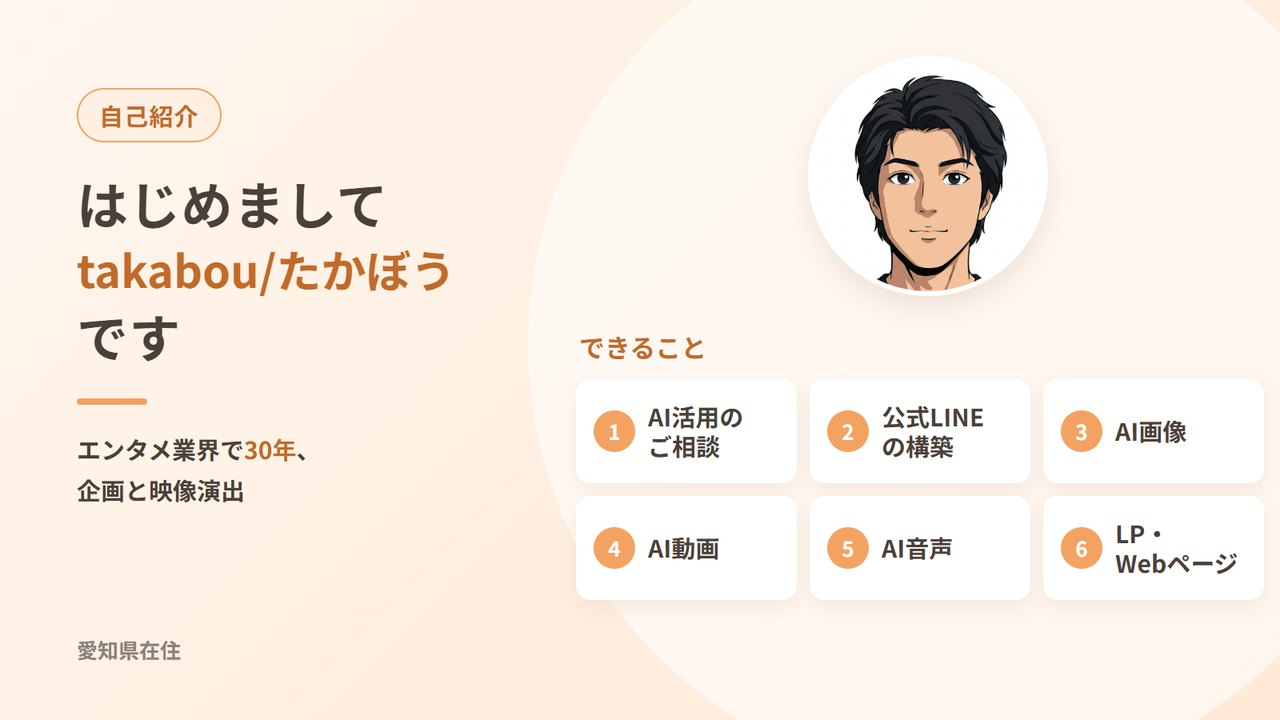
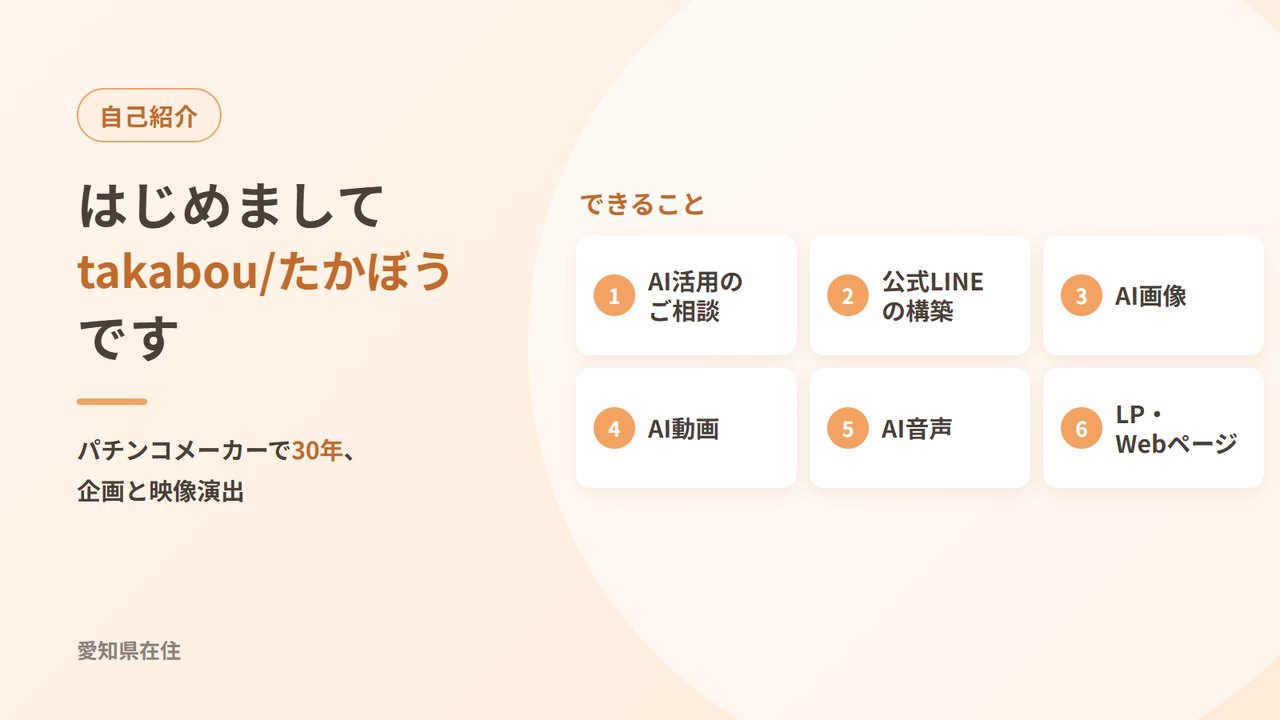
自己紹介ページを追加（写真6枚のスライド）
- works/profile.html：写真に白いフィルターと文字を重ねた自己紹介スライド6枚
- トップの自己紹介カードは似顔絵なしの画像にし、自己紹介ページへリンク
- 肩書を「AIクリエイター」、前職を「パチンコメーカー」に統一
- check.js に自己紹介ページの存在とリンクの確認を追加

diff --git a/works/profile.html b/works/profile.html
@@ -1,0 +1,87 @@
+<!DOCTYPE html>
+<html lang="ja">
+<head>
+  <meta charset="utf-8">
+  <meta name="viewport" content="width=device-width, initial-scale=1">
+  <title>自己紹介｜takabou/たかぼう</title>
+  <meta name="description" content="生まれた町のこと、会社員時代のこと、好きなこと、大切にしていること、これからの夢。6枚で、自分のことをお伝えします。">
+  <meta name="robots" content="noindex">
+  <link rel="canonical" href="https://takabou-n.github.io/works/profile.html">
+  <link rel="icon" type="image/png" href="../assets/img/icon.png">
+  <meta property="og:title" content="自己紹介｜takabou/たかぼう">
+  <meta property="og:description" content="生まれた町のこと、会社員時代のこと、好きなこと、大切にしていること、これからの夢。6枚で、自分のことをお伝えします。">
+  <meta property="og:image" content="https://takabou-n.github.io/assets/profile/01.jpg">
+  <meta property="og:url" content="https://takabou-n.github.io/works/profile.html">
+  <meta property="og:type" content="profile">
+  <meta name="twitter:card" content="summary_large_image">
+  <link rel="preconnect" href="https://fonts.googleapis.com">
+  <link rel="preconnect" href="https://fonts.gstatic.com" crossorigin>
+  <link rel="stylesheet" href="https://fonts.googleapis.com/css2?family=Noto+Sans+JP:wght@400;500;700&display=swap">
+  <link rel="stylesheet" href="../assets/css/style.css">
+  <script src="../assets/js/main.js" defer></script>
+</head>
+<body class="page-profile">
+<header class="site-header">
+  <div class="container header-inner">
+    <div class="header-left">
+      <a class="site-brand" href="../index.html">
+        <img src="../assets/img/icon.png" alt="takabou/たかぼうの似顔絵イラスト" width="512" height="512" class="header-icon">
+        <span class="site-brand-name">takabou/たかぼう</span>
+      </a>
+      <div class="header-links">
+        <a class="header-link header-link-line" href="https://line.me/R/ti/p/%40671jkqgd" target="_blank" rel="noopener noreferrer" aria-label="公式LINE" title="公式LINE"><svg class="icon-line" viewBox="0 0 32 32" width="32" height="32" aria-hidden="true" focusable="false"><rect width="32" height="32" rx="8" fill="#06C755"/><path fill="#FFFFFF" d="M16 6.5c-5.8 0-10.5 3.8-10.5 8.5 0 4.2 3.7 7.7 8.8 8.4.3.1.8.2.9.5.1.3.1.7 0 1l-.2.9c0 .3-.2 1 .9.6 1.1-.5 6-3.5 8.2-6.1 1.5-1.6 2.4-3.4 2.4-5.3C26.5 10.3 21.8 6.5 16 6.5z"/><text x="16" y="17.6" text-anchor="middle" font-family="Arial, sans-serif" font-size="5.6" font-weight="700" fill="#06C755">LINE</text></svg></a>
+        <a class="header-link header-link-chatwork" href="https://www.chatwork.com/takabou_AI" target="_blank" rel="noopener noreferrer" aria-label="Chatwork" title="Chatwork"><img class="icon-chatwork" src="../assets/img/chatwork_icon.png" alt="" width="22" height="22"></a>
+        <a class="header-link header-link-mail js-mail-icon" href="#contact" data-u="nrnr.hawaii" data-d="gmail.com" data-s="ポートフォリオを見てのご相談" aria-label="メール" title="メール"><svg class="icon-mail" viewBox="0 0 24 24" width="22" height="22" aria-hidden="true" focusable="false"><rect x="3" y="5.5" width="18" height="13" rx="2.5" fill="none" stroke="currentColor" stroke-width="1.8"/><path d="M4 7.5l8 6 8-6" fill="none" stroke="currentColor" stroke-width="1.8" stroke-linecap="round" stroke-linejoin="round"/></svg></a>
+      </div>
+    </div>
+    <div class="header-cta">
+      <span class="header-cta-lead">たかぼうへの問い合わせはこちらから</span>
+      <a class="btn btn-primary btn-header" href="#contact"><svg class="icon-mail" viewBox="0 0 24 24" width="22" height="22" aria-hidden="true" focusable="false"><rect x="3" y="5.5" width="18" height="13" rx="2.5" fill="none" stroke="currentColor" stroke-width="1.8"/><path d="M4 7.5l8 6 8-6" fill="none" stroke="currentColor" stroke-width="1.8" stroke-linecap="round" stroke-linejoin="round"/></svg><span>問い合わせ</span></a>
+    </div>
+  </div>
+</header>
+<main class="site-main work-main">
+  <div class="container">
+    <nav class="breadcrumb" aria-label="パンくずリスト">
+      <a href="../index.html">トップページ</a>
+      <span class="breadcrumb-sep" aria-hidden="true">＞</span>
+      <span aria-current="page">自己紹介</span>
+    </nav>
+    <header class="work-header profile-page-header">
+      <h1 class="work-title">takabou/たかぼうって、どんな人？</h1>
+      <p class="profile-page-lead">生まれた町のこと、会社員時代のこと、好きなこと、大切にしていること、これからの夢。6枚で、自分のことをお伝えします。</p>
+    </header>
+    <div class="profile-slides">
+      <figure class="profile-slide"><img src="../assets/profile/01.jpg" alt="自己紹介 1枚目：はじめまして、takabou/たかぼう です" width="1280" height="720" class="profile-slide-img"></figure>
+      <figure class="profile-slide"><img src="../assets/profile/02.jpg" alt="自己紹介 2枚目：大阪で生まれ育ち、 いまは犬山に 大阪市で生まれ、大阪の大学で電気工学を学びました いまは国宝・犬山城のある愛知県犬山市に住んでいます 薪ストーブのある家で、家族4人（妻と息子2人）で暮らしています" width="1280" height="720" class="profile-slide-img" loading="lazy"></figure>
+      <figure class="profile-slide"><img src="../assets/profile/03.jpg" alt="自己紹介 3枚目：パチンコメーカーで30年、 台の企画と映像演出 機種責任者として担当した台で、いちばん売れたものは7万台（約150億円） いちばんうれしかったのは、自分が作った台を、たくさんの人が楽しそうに遊んでくれたこと 最後の3年間は、AI推進プロジェクトのリーダーとして、ものづくりにAIを取り入れる役割 55歳で早期退職し、AIを使って人を助ける仕事に就こうと決意" width="1280" height="720" class="profile-slide-img" loading="lazy"></figure>
+      <figure class="profile-slide"><img src="../assets/profile/04.jpg" alt="自己紹介 4枚目：好きなこと・得意なこと 好きなこと サッカー観戦 ハワイに行くこと AIでツール開発 パソコンの自作 家族での旅行と食事 得意なこと パソコンの修理 薪作り ドライブ" width="1280" height="720" class="profile-slide-img" loading="lazy"></figure>
+      <figure class="profile-slide"><img src="../assets/profile/05.jpg" alt="自己紹介 5枚目：大切にしていること 頼まれごとは、試されごと 頼まれるのは、期待してもらえているから。その期待を少しでも超える形で応える。 No Rain, No Rainbow 悪い事の後には、必ず良い事が来る。だから挫けない。 家族があっての人生 一人では誰も生きて行けない、家族で笑って暮らすことがいちばん。" width="1280" height="720" class="profile-slide-img" loading="lazy"></figure>
+      <figure class="profile-slide"><img src="../assets/profile/06.jpg" alt="自己紹介 6枚目：将来の夢 AIを使って、身近な人の「困った」をなくす パソコン1つで、どこでも働けるようになる 2030年のサッカー・ワールドカップを、現地で観戦する 5年後に、豪華客船に乗って世界を旅する ハワイで生活する" width="1280" height="720" class="profile-slide-img" loading="lazy"></figure>
+    </div>
+    <section class="work-contact" id="contact">
+      <div class="work-contact-panel">
+        <p class="work-contact-lead">たかぼうへのご相談はこちらから</p>
+        <div class="work-contact-actions">
+          <a class="btn btn-line" href="https://line.me/R/ti/p/%40671jkqgd" target="_blank" rel="noopener noreferrer">公式LINEで相談する</a>
+          <a class="btn btn-secondary" href="https://www.chatwork.com/takabou_AI" target="_blank" rel="noopener noreferrer">Chatworkで相談する</a>
+          <div class="js-mail-slot" data-u="nrnr.hawaii" data-d="gmail.com" data-s="ポートフォリオを見てのご相談" data-l="メールで相談する"></div>
+<noscript><p class="mail-noscript">メールアドレスを表示するには JavaScript を有効にしてください。公式LINEからもご相談いただけます。</p></noscript>
+        </div>
+      </div>
+    </section>
+  </div>
+</main>
+<footer class="site-footer site-footer-with-bar">
+  <div class="container">
+    <p class="footer-text">© 2026 takabou　掲載している作品の画像・文章の無断転載はご遠慮ください。</p>
+  </div>
+</footer>
+<div class="bottom-bar" id="bottom-bar">
+  <div class="container bottom-bar-inner">
+    <p class="bottom-bar-lead">たかぼうへのご相談はこちらから</p>
+    <a class="btn btn-primary btn-bottom-bar" href="#contact">相談する</a>
+  </div>
+</div>
+</body>
+</html>

diff --git a/index.html b/index.html
@@ -3,13 +3,13 @@
 <head>
   <meta charset="utf-8">
   <meta name="viewport" content="width=device-width, initial-scale=1">
-  <title>takabou/たかぼう｜AI活用支援・AI素材クリエイター</title>
-  <meta name="description" content="AIの導入・活用のご相談から、画像・動画・音声・LPの素材づくりまで。愛知県在住、エンタメ業界で30年企画と映像演出に携わった、takabou/たかぼうの作品集です。">
+  <title>takabou/たかぼう｜AI活用支援・AIクリエイター</title>
+  <meta name="description" content="AIの導入・活用のご相談から、画像・動画・音声・LPの素材づくりまで。愛知県在住、パチンコメーカーで30年企画と映像演出に携わった、takabou/たかぼうの作品集です。">
   <meta name="robots" content="noindex">
   <link rel="canonical" href="https://takabou-n.github.io/">
   <link rel="icon" type="image/png" href="assets/img/icon.png">
-  <meta property="og:title" content="takabou/たかぼう｜AI活用支援・AI素材クリエイター">
-  <meta property="og:description" content="AIの導入・活用のご相談から、画像・動画・音声・LPの素材づくりまで。愛知県在住、エンタメ業界で30年企画と映像演出に携わった、takabou/たかぼうの作品集です。">
+  <meta property="og:title" content="takabou/たかぼう｜AI活用支援・AIクリエイター">
+  <meta property="og:description" content="AIの導入・活用のご相談から、画像・動画・音声・LPの素材づくりまで。愛知県在住、パチンコメーカーで30年企画と映像演出に携わった、takabou/たかぼうの作品集です。">
   <meta property="og:image" content="https://takabou-n.github.io/assets/img/ogp.jpg">
   <meta property="og:url" content="https://takabou-n.github.io/">
   <meta property="og:type" content="website">
@@ -45,7 +45,7 @@
     <div class="container profile-inner">
       <img src="assets/img/icon.png" alt="takabou/たかぼうの似顔絵イラスト" width="512" height="512" class="profile-icon">
       <div class="profile-text">
-        <p class="profile-role">AI活用支援・AI素材クリエイター</p>
+        <p class="profile-role">AI活用支援・AIクリエイター</p>
         <div class="profile-name-row">
           <h1 class="profile-name">takabou/たかぼう</h1>
           <p class="profile-region"><span class="region-dot" aria-hidden="true"></span><span>愛知県</span></p>
@@ -91,7 +91,7 @@
 <article class="about-group">
   <h2 id="career" class="about-heading">経歴</h2>
 <ul class="about-list">
-  <li>1995年〜2025年：エンタメ業界の会社で、商品の企画開発と映像演出を担当</li>
+  <li>1995年〜2025年：パチンコメーカーで、台の企画開発と映像演出を担当</li>
       <li>2023年〜2025年：AI推進プロジェクトのリーダーとして、クリエイティブの仕事にAIを取り入れる役割を担当</li>
       <li>現在：AIの導入・活用支援と、AI素材づくりのお仕事をしています</li>
 </ul>
@@ -139,8 +139,8 @@
         <button type="button" role="tab" class="category-tab" data-cat="note" aria-selected="false">発信・note</button>
       </div>
       <div class="card-grid" id="card-grid">
-<a class="work-card work-card-pinned" href="#about" data-cat="all" data-pinned="true">
-  <div class="card-thumb"><img src="assets/pinned/hello.jpg" alt="自己紹介：はじめまして、takabou/たかぼうです。エンタメ業界で30年、企画と映像演出。できること：AI活用のご相談、公式LINEの構築、AI画像、AI動画、AI音声、LP・Webページ" width="1280" height="720" class="card-image" loading="lazy"><span class="card-overlay" aria-hidden="true"><span class="ov-media">自己紹介</span><span class="ov-view"><svg viewBox="0 0 24 24" width="20" height="20" aria-hidden="true" focusable="false"><path d="M2 12s3.6-6.5 10-6.5S22 12 22 12s-3.6 6.5-10 6.5S2 12 2 12z" fill="none" stroke="currentColor" stroke-width="1.8"/><circle cx="12" cy="12" r="3" fill="none" stroke="currentColor" stroke-width="1.8"/></svg><span>プロフィールを見る</span></span><span class="ov-genre"><svg viewBox="0 0 24 24" width="16" height="16" aria-hidden="true" focusable="false"><path d="M3 12.6V4.5A1.5 1.5 0 0 1 4.5 3h8.1l8.4 8.4a1.5 1.5 0 0 1 0 2.1l-7.5 7.5a1.5 1.5 0 0 1-2.1 0z" fill="none" stroke="currentColor" stroke-width="1.8" stroke-linejoin="round"/><circle cx="8" cy="8" r="1.6" fill="currentColor"/></svg><span>プロフィール</span></span></span></div>
+<a class="work-card work-card-pinned" href="works/profile.html" data-cat="all" data-pinned="true">
+  <div class="card-thumb"><img src="assets/pinned/hello.jpg" alt="自己紹介：はじめまして、takabou/たかぼうです。パチンコメーカーで30年、企画と映像演出。できること：AI活用のご相談、公式LINEの構築、AI画像、AI動画、AI音声、LP・Webページ" width="1280" height="720" class="card-image" loading="lazy"><span class="card-overlay" aria-hidden="true"><span class="ov-media">自己紹介</span><span class="ov-view"><svg viewBox="0 0 24 24" width="20" height="20" aria-hidden="true" focusable="false"><path d="M2 12s3.6-6.5 10-6.5S22 12 22 12s-3.6 6.5-10 6.5S2 12 2 12z" fill="none" stroke="currentColor" stroke-width="1.8"/><circle cx="12" cy="12" r="3" fill="none" stroke="currentColor" stroke-width="1.8"/></svg><span>自己紹介を見る</span></span><span class="ov-genre"><svg viewBox="0 0 24 24" width="16" height="16" aria-hidden="true" focusable="false"><path d="M3 12.6V4.5A1.5 1.5 0 0 1 4.5 3h8.1l8.4 8.4a1.5 1.5 0 0 1 0 2.1l-7.5 7.5a1.5 1.5 0 0 1-2.1 0z" fill="none" stroke="currentColor" stroke-width="1.8" stroke-linejoin="round"/><circle cx="8" cy="8" r="1.6" fill="currentColor"/></svg><span>プロフィール</span></span></span></div>
   <h3 class="card-caption">【自己紹介】はこちらです</h3>
 </a>
 <a class="work-card" href="works/inuyama-cm.html" data-cat="video">

diff --git a/tools/build.js b/tools/build.js
@@ -757,6 +757,68 @@ function buildWorkHtml(site, work, allWorks, categorySlugMap) {
 }
 
 /**
+ * Build the self-introduction page (works/profile.html): slides stacked top to bottom.
+ * @param {object} site
+ * @returns {string}
+ */
+function buildProfileHtml(site) {
+  const pg = site.profilePage;
+  const relPrefix = '../';
+  const baseUrl = site.siteUrl.endsWith('/') ? site.siteUrl : `${site.siteUrl}/`;
+  const head = renderHead({
+    title: `${pg.title}｜${site.name}`,
+    description: pg.lead,
+    canonicalUrl: `${baseUrl}works/${pg.id}.html`,
+    ogImageUrl: baseUrl + pg.slides[0].image,
+    ogType: 'profile',
+    relPrefix,
+  });
+  const slides = pg.slides
+    .map((s, i) =>
+      `      <figure class="profile-slide">${renderImage(s.image, s.alt, relPrefix, { className: 'profile-slide-img', lazy: i > 0 })}</figure>`
+    )
+    .join('\n');
+  return [
+    '<!DOCTYPE html>',
+    '<html lang="ja">',
+    head,
+    '<body class="page-profile">',
+    renderHeader(site, relPrefix, '#contact'),
+    '<main class="site-main work-main">',
+    '  <div class="container">',
+    '    <nav class="breadcrumb" aria-label="パンくずリスト">',
+    `      <a href="../index.html">${esc(site.breadcrumbTop || 'トップページ')}</a>`,
+    '      <span class="breadcrumb-sep" aria-hidden="true">＞</span>',
+    `      <span aria-current="page">${esc(pg.title)}</span>`,
+    '    </nav>',
+    '    <header class="work-header profile-page-header">',
+    `      <h1 class="work-title">${esc(pg.heading)}</h1>`,
+    `      <p class="profile-page-lead">${esc(pg.lead)}</p>`,
+    '    </header>',
+    '    <div class="profile-slides">',
+    slides,
+    '    </div>',
+    '    <section class="work-contact" id="contact">',
+    '      <div class="work-contact-panel">',
+    `        <p class="work-contact-lead">${esc(site.contactLead)}</p>`,
+    '        <div class="work-contact-actions">',
+    `          <a class="btn btn-line" href="${esc(site.contact.line.url)}" target="_blank" rel="noopener noreferrer">${esc(site.contact.line.label)}</a>`,
+    `          <a class="btn btn-secondary" href="${esc(site.contact.chatwork.url)}" target="_blank" rel="noopener noreferrer">${esc(site.contact.chatwork.label)}</a>`,
+    `          ${renderMailSlot(site.contact.mail)}`,
+    '        </div>',
+    '      </div>',
+    '    </section>',
+    '  </div>',
+    '</main>',
+    renderFooter(site, { hasBottomBar: true }),
+    renderBottomBar(site),
+    '</body>',
+    '</html>',
+    '',
+  ].join('\n');
+}
+
+/**
  * Build 404.html.
  * @param {object} site
  * @returns {string}
@@ -884,6 +946,9 @@ function main() {
     );
   }
 
+  if (site.profilePage) {
+    writeText(path.join(WORKS_OUT_DIR, `${site.profilePage.id}.html`), buildProfileHtml(site));
+  }
   writeText(path.join(ROOT_DIR, '404.html'), build404Html(site));
   const sitemapPath = path.join(ROOT_DIR, 'sitemap.xml');
   if (SEARCH_INDEX) {

diff --git a/assets/css/style.css b/assets/css/style.css
@@ -1477,3 +1477,46 @@ a {
   height: 100%;
   border: 0;
 }
+
+/* Self-introduction page: its own blue-green so it reads apart from the works */
+.page-profile {
+  --p-accent: #2E9C93;
+  --p-deep: #1D6B65;
+  --p-soft: #E6F5F3;
+  background: linear-gradient(160deg, #FFFFFF 0%, #F3FAF9 55%, #E9F5F3 100%);
+}
+
+.page-profile .work-title {
+  color: var(--p-deep);
+}
+
+.page-profile .breadcrumb a {
+  color: var(--p-deep);
+}
+
+.profile-page-lead {
+  margin: 10px 0 0;
+  color: var(--muted);
+  line-height: 1.8;
+}
+
+.profile-slides {
+  display: flex;
+  flex-direction: column;
+  gap: 24px;
+  margin: 8px 0 48px;
+}
+
+.profile-slide {
+  margin: 0;
+  border-radius: var(--radius-card);
+  overflow: hidden;
+  box-shadow: 0 10px 30px rgba(29, 107, 101, 0.14);
+  background-color: var(--p-soft);
+}
+
+.profile-slide-img {
+  display: block;
+  width: 100%;
+  height: auto;
+}

diff --git a/tools/check.js b/tools/check.js
@@ -202,6 +202,17 @@ function main() {
   }
   if (worksData && Array.isArray(worksData.works)) {
     const expectedSet = new Set(worksData.works.map((w) => `${w.id}.html`));
+    // 自己紹介ページ（site.json の profilePage）も works/ に置く
+    if (site && site.profilePage && site.profilePage.id) {
+      const pid = `${site.profilePage.id}.html`;
+      expectedSet.add(pid);
+      if (!fs.existsSync(path.join(worksOutDir, pid))) {
+        check3Errors.push(`works/${pid}（自己紹介ページ）が存在しません`);
+      }
+      if (!indexHtml.includes(`href="works/${pid}"`)) {
+        check3Errors.push(`index.html から works/${pid} へのリンクがありません`);
+      }
+    }
     const actualFiles = fs.existsSync(worksOutDir)
       ? fs.readdirSync(worksOutDir).filter((n) => n.endsWith('.html'))
       : [];
